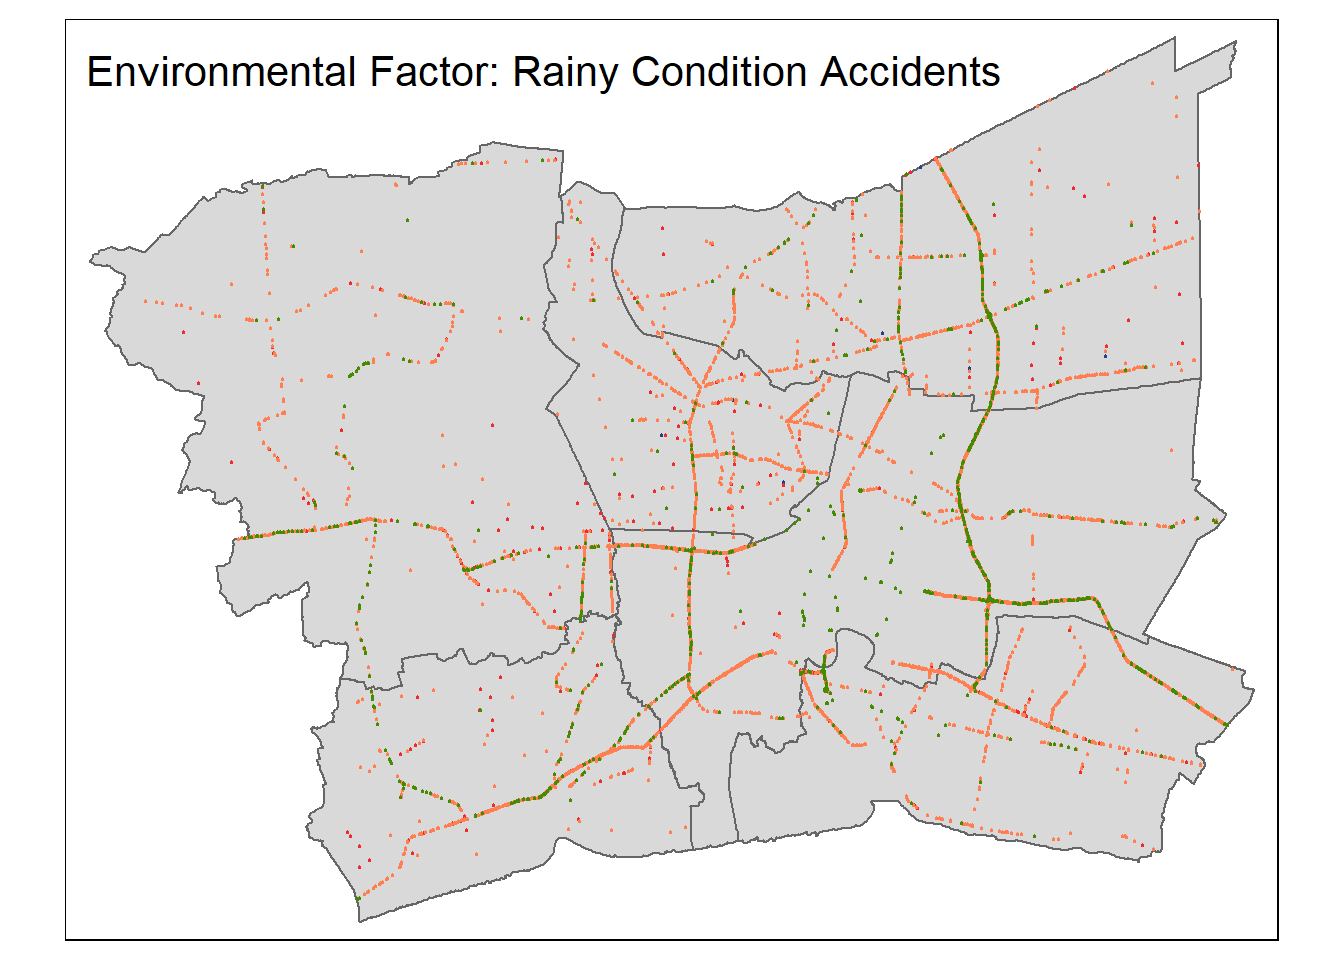
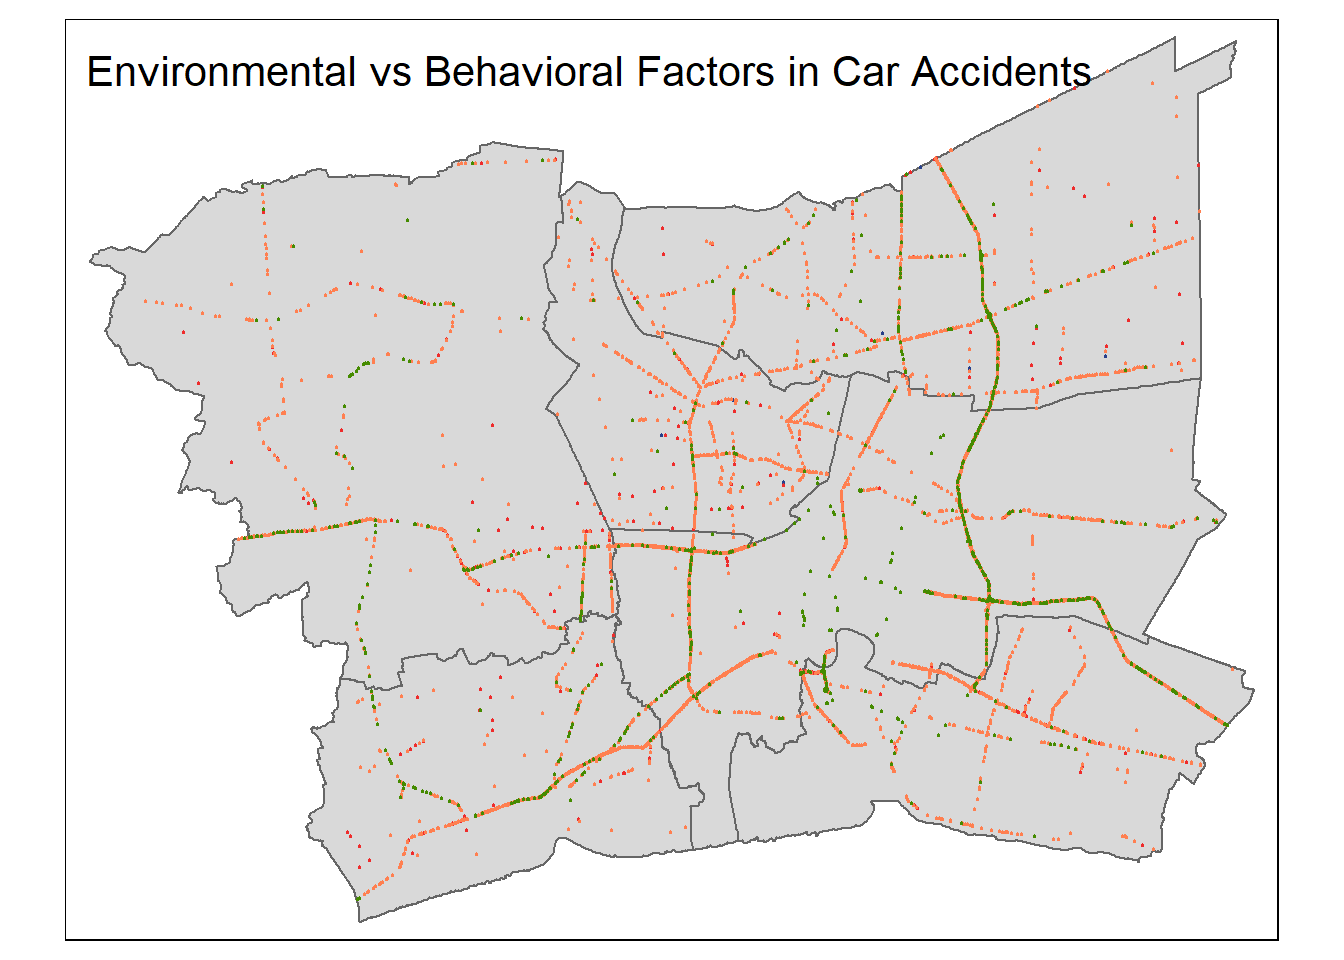
Commit to update Take Home Ex01

Changed region(s): [[0.25, 0.0625, 0.8125, 0.0938]]

diff --git a/_site/Take-Home_Ex/Take-Home_Ex01/Take-Home_Ex01.html b/_site/Take-Home_Ex/Take-Home_Ex01/Take-Home_Ex01.html
@@ -1040,13 +1040,11 @@ Evaluation
 <span id="cb62-5"><a href="#cb62-5" aria-hidden="true" tabindex="-1"></a>  <span class="fu">tm_dots</span>(<span class="at">size =</span> <span class="fl">0.01</span>, <span class="at">col =</span> <span class="st">"royalblue4"</span>, <span class="at">title =</span> <span class="st">"Environmental Factors"</span>) <span class="sc">+</span> </span>
 <span id="cb62-6"><a href="#cb62-6" aria-hidden="true" tabindex="-1"></a>  <span class="fu">tm_shape</span>(behavioral_factors) <span class="sc">+</span></span>
 <span id="cb62-7"><a href="#cb62-7" aria-hidden="true" tabindex="-1"></a>  <span class="fu">tm_dots</span>(<span class="at">size =</span> <span class="fl">0.01</span>, <span class="at">col =</span> <span class="st">"firebrick2"</span>, <span class="at">title =</span> <span class="st">"Behavioral Factors"</span>) <span class="sc">+</span></span>
-<span id="cb62-8"><a href="#cb62-8" aria-hidden="true" tabindex="-1"></a>  <span class="fu">tm_layout</span>(<span class="at">title =</span> <span class="st">"Environmental vs Behavioral Factors in Car Accidents"</span>) <span class="sc">+</span></span>
-<span id="cb62-9"><a href="#cb62-9" aria-hidden="true" tabindex="-1"></a>  <span class="fu">tm_shape</span>(speeding_accidents) <span class="sc">+</span></span>
-<span id="cb62-10"><a href="#cb62-10" aria-hidden="true" tabindex="-1"></a>  <span class="fu">tm_dots</span>(<span class="at">size =</span> <span class="fl">0.01</span>, <span class="at">col =</span> <span class="st">"coral"</span>) <span class="sc">+</span> </span>
-<span id="cb62-11"><a href="#cb62-11" aria-hidden="true" tabindex="-1"></a>  <span class="fu">tm_layout</span>(<span class="at">title =</span> <span class="st">"Behavioral Factor: Speeding Accidents"</span>) <span class="sc">+</span></span>
-<span id="cb62-12"><a href="#cb62-12" aria-hidden="true" tabindex="-1"></a>  <span class="fu">tm_shape</span>(rainy_accidents) <span class="sc">+</span></span>
-<span id="cb62-13"><a href="#cb62-13" aria-hidden="true" tabindex="-1"></a>  <span class="fu">tm_dots</span>(<span class="at">size =</span> <span class="fl">0.01</span>, <span class="at">col =</span> <span class="st">"chartreuse4"</span>) <span class="sc">+</span> </span>
-<span id="cb62-14"><a href="#cb62-14" aria-hidden="true" tabindex="-1"></a>  <span class="fu">tm_layout</span>(<span class="at">title =</span> <span class="st">"Environmental Factor: Rainy Condition Accidents"</span>)</span></code><button title="Copy to Clipboard" class="code-copy-button"><i class="bi"></i></button></pre></div>
+<span id="cb62-8"><a href="#cb62-8" aria-hidden="true" tabindex="-1"></a>  <span class="fu">tm_shape</span>(speeding_accidents) <span class="sc">+</span></span>
+<span id="cb62-9"><a href="#cb62-9" aria-hidden="true" tabindex="-1"></a>  <span class="fu">tm_dots</span>(<span class="at">size =</span> <span class="fl">0.01</span>, <span class="at">col =</span> <span class="st">"coral"</span>, <span class="at">title =</span>  <span class="st">"Speeding Accidents"</span>) <span class="sc">+</span> </span>
+<span id="cb62-10"><a href="#cb62-10" aria-hidden="true" tabindex="-1"></a>  <span class="fu">tm_shape</span>(rainy_accidents) <span class="sc">+</span></span>
+<span id="cb62-11"><a href="#cb62-11" aria-hidden="true" tabindex="-1"></a>  <span class="fu">tm_dots</span>(<span class="at">size =</span> <span class="fl">0.01</span>, <span class="at">col =</span> <span class="st">"chartreuse4"</span>, <span class="at">title =</span>  <span class="st">"Rainy Condition Accidents"</span>) <span class="sc">+</span> </span>
+<span id="cb62-12"><a href="#cb62-12" aria-hidden="true" tabindex="-1"></a>  <span class="fu">tm_layout</span>(<span class="at">title =</span> <span class="st">"Environmental vs Behavioral Factors in Car Accidents"</span>)</span></code><button title="Copy to Clipboard" class="code-copy-button"><i class="bi"></i></button></pre></div>
 <div class="cell-output-display">
 <div>
 <figure class="figure">
